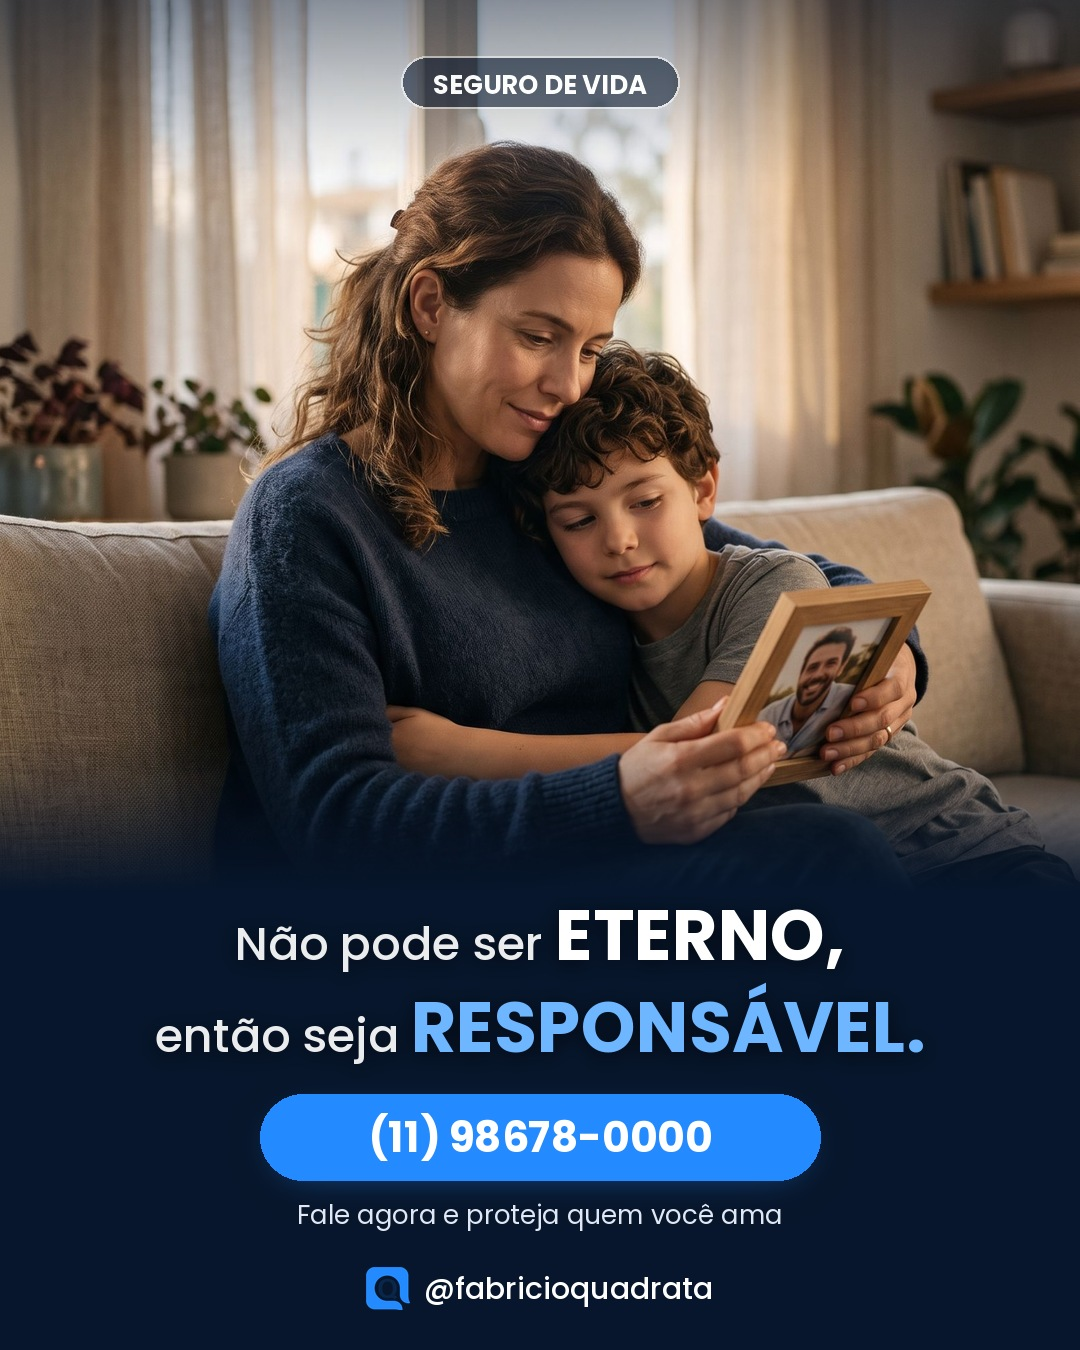
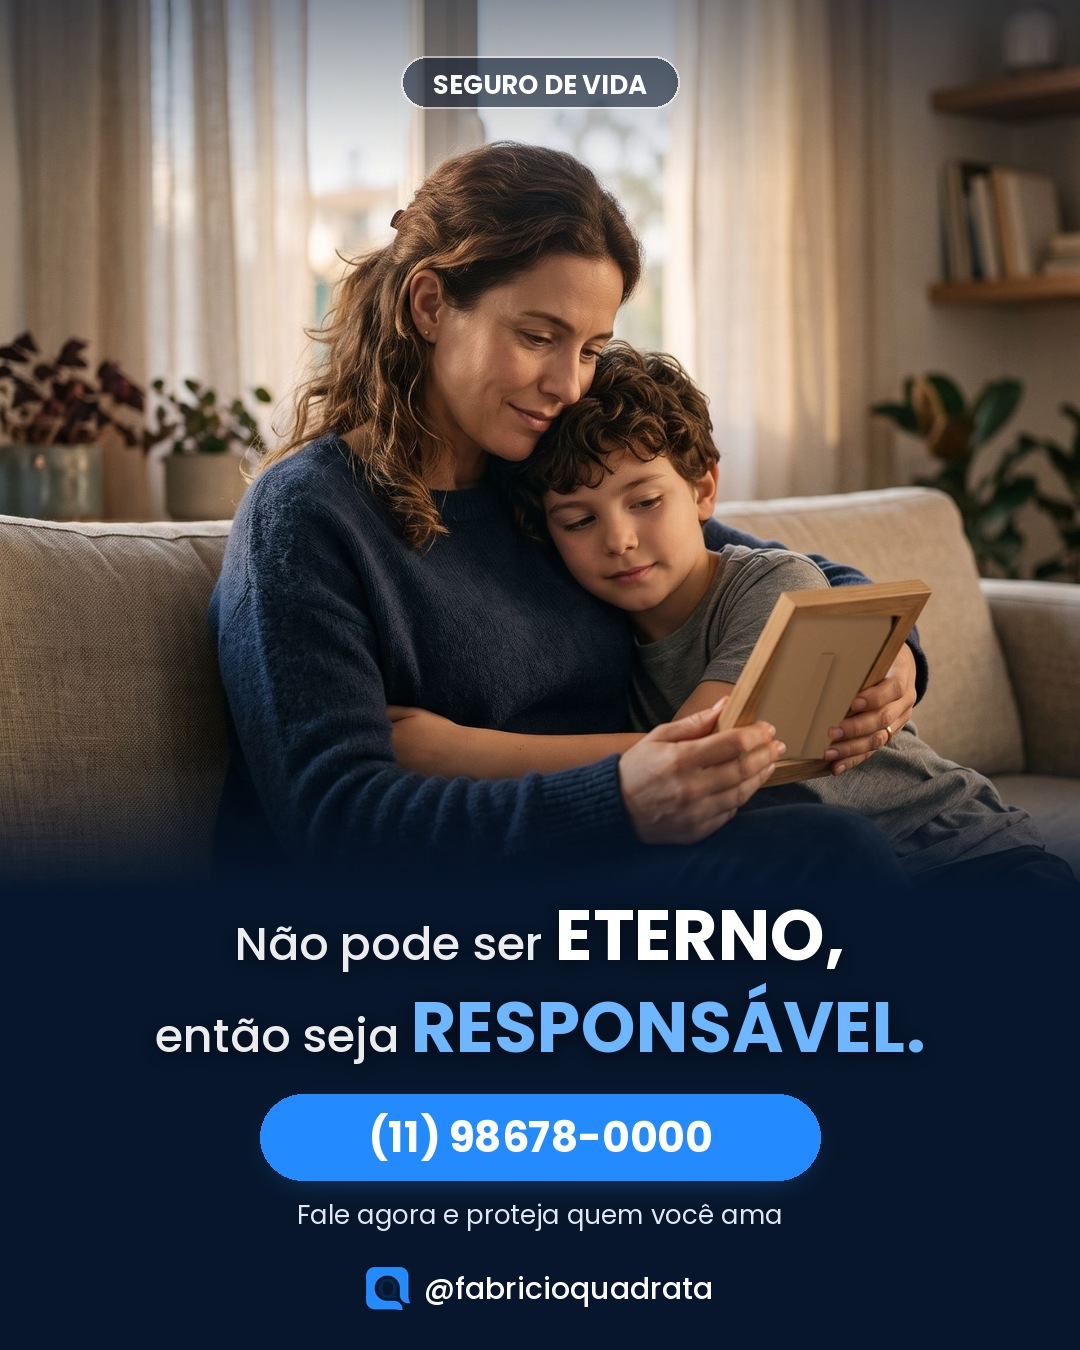
Post 017: mostra o verso do porta-retrato em vez da foto do pai
Mãe e filho olham a foto, então ela não pode aparecer para quem vê o
post. apagar_foto_porta_retrato.py troca o miolo da moldura por um
verso de papelão com pezinho de apoio, preservando os dedos da mãe, e
gera foto_editada.jpg, que o gerar_slide.py passa a usar. Remove o
prompt de edição do Gemini, que não é mais necessário.

Claude-Session: https://claude.ai/code/session_01Lns6JiNrCrKfT21QJXh2L5

Changed region(s): [[0.7028, 0.4356, 0.825, 0.56]]

diff --git a/posts/017_seguro_vida_familia/apagar_foto_porta_retrato.py b/posts/017_seguro_vida_familia/apagar_foto_porta_retrato.py
@@ -1,0 +1,65 @@
+"""Troca a foto do pai (virada para quem vê o post) pelo verso do porta-retrato.
+Gera foto_editada.jpg a partir de foto_base.jpg, preservando os dedos da mãe."""
+from pathlib import Path
+import random
+from PIL import Image, ImageDraw, ImageFilter, ImageChops
+
+AQUI = Path(__file__).parent
+im = Image.open(AQUI / 'foto_base.jpg').convert('RGB')
+W, H = im.size
+
+# miolo do porta-retrato (onde aparece a foto), em coordenadas da foto original
+TL, TR, BR, BL = (1182, 919), (1339, 918), (1226, 1132), (1102, 1132)
+area = Image.new('L', (W, H), 0)
+ImageDraw.Draw(area).polygon([TL, TR, BR, BL], fill=255)
+
+# dedos por cima da foto: tom de pele na parte de baixo/direita do miolo
+# (o rosto do homem na foto fica acima/à esquerda e não entra nessa zona)
+px = im.load()
+dedos = Image.new('L', (W, H), 0); dp = dedos.load()
+for y in range(915, 1140):
+    for x in range(1100, 1330):
+        r, g, b = px[x, y]
+        pele = r > (158 if x < 1200 else 115) and r - g > 14 and r - b > 32
+        if pele and (y > 1060 or (x > 1258 and y > 1030)):
+            dp[x, y] = 255
+dedos = dedos.filter(ImageFilter.MinFilter(3)).filter(ImageFilter.MaxFilter(7)).filter(ImageFilter.MinFilter(3))
+
+mask = ImageChops.subtract(area, dedos).filter(ImageFilter.GaussianBlur(1.2))
+
+# verso: papelão kraft, com luz vindo da esquerda/alto, textura leve e pezinho de apoio
+verso = Image.new('RGB', (W, H))
+vd = ImageDraw.Draw(verso)
+x0, x1, y0, y1 = 1100, 1330, 915, 1140
+for y in range(y0, y1):
+    for x in range(x0, x1):
+        t = ((x - x0) / (x1 - x0)) * 0.55 + ((y - y0) / (y1 - y0)) * 0.45
+        base = (150 - 38 * t, 110 - 30 * t, 74 - 22 * t)
+        n = random.uniform(-5, 5)
+        verso.putpixel((x, y), tuple(int(c + n) for c in base))
+verso = verso.filter(ImageFilter.GaussianBlur(1.6))
+vd = ImageDraw.Draw(verso, 'RGBA')
+
+# sombra interna da moldura (topo e lado esquerdo)
+sombra = Image.new('L', (W, H), 0); sd = ImageDraw.Draw(sombra)
+sd.line([TL, TR], fill=150, width=9); sd.line([TL, BL], fill=150, width=9)
+sombra = sombra.filter(ImageFilter.GaussianBlur(5))
+verso = Image.composite(Image.new('RGB', (W, H), (60, 40, 25)), verso, sombra)
+
+# pezinho de apoio: faixa afunilada, pouco contraste, com sombra suave à direita
+cx = (TL[0] + TR[0] + BL[0] + BR[0]) / 4 + 4
+top_y, bot_y = 975, 1128
+skew = (BL[0] - TL[0]) / (BL[1] - TL[1])
+def px_at(y, dx): return (cx + (y - 1025) * skew + dx, y)
+pe = [px_at(top_y, -9), px_at(top_y, 9), px_at(bot_y, 15), px_at(bot_y, -15)]
+sh = Image.new('L', (W, H), 0)
+ImageDraw.Draw(sh).polygon([(x + 7, y + 3) for x, y in pe], fill=110)
+verso = Image.composite(Image.new('RGB', (W, H), (70, 48, 30)), verso, sh.filter(ImageFilter.GaussianBlur(5)))
+vd = ImageDraw.Draw(verso, 'RGBA')
+vd.polygon(pe, fill=(128, 92, 60, 255))
+vd.line([pe[0], pe[1]], fill=(110, 78, 50, 255), width=3)
+verso = verso.filter(ImageFilter.GaussianBlur(0.8))
+
+saida = Image.composite(verso, im, mask)
+saida.save(AQUI / 'foto_editada.jpg', quality=95)
+print('OK: foto_editada.jpg gerada')

diff --git a/posts/017_seguro_vida_familia/gerar_slide.py b/posts/017_seguro_vida_familia/gerar_slide.py
@@ -39,7 +39,7 @@ def soft_lines(img, lines):
     return Image.alpha_composite(img, layer)
 
 # ---------- foto: mãe e filho com o retrato do pai ----------
-foto = Image.open(AQUI / 'foto_base.jpg').convert('RGB')
+foto = Image.open(AQUI / 'foto_editada.jpg').convert('RGB')
 foto = foto.resize((W, int(foto.height * W / foto.width)), Image.LANCZOS)  # 1080 x 1341
 im = Image.new('RGBA', (W, H), DEEP + (255,))
 im.paste(foto, (0, 0))
